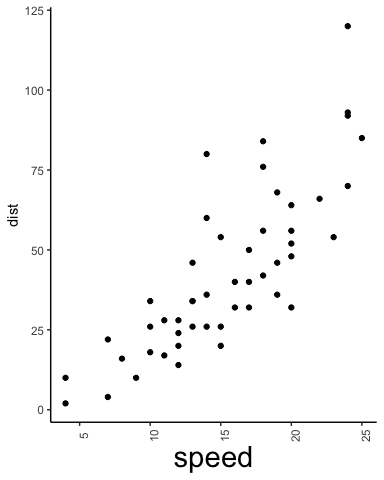
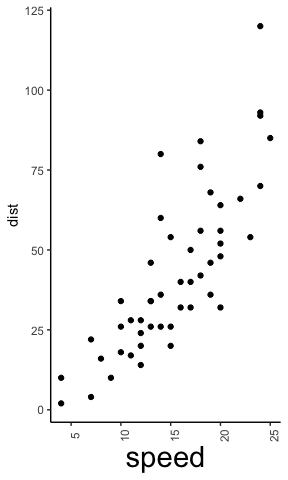
more commands

diff --git a/README.md b/README.md
@@ -31,7 +31,7 @@ below):
       gg_("rotate x-axis labels by 90 degrees")+
       gg_("increase font size on x-axis label")
 
-![](man/figures/README-overview_usage-1.png)
+<img src="man/figures/README-overview_usage-1.png" width="50%" />
 
 Disclaimer
 ----------
@@ -68,7 +68,7 @@ Fisher’s classic iris data:
            mapping=aes(x=Sepal.Length, 
                       y=Petal.Length, color=Species))
 
-![](man/figures/README-unnamed-chunk-3-1.png)
+<img src="man/figures/README-unnamed-chunk-3-1.png" width="50%" />
 
 Now, if we want to hide the legend and don’t remember the ggplot command
 to do so, we can use the `gg_()` short-hand to express our request in
@@ -80,7 +80,7 @@ natural language:
       geom_point()+
       gg_("hide legend")
 
-![](man/figures/README-example_hide_legend-1.png)
+<img src="man/figures/README-example_hide_legend-1.png" width="50%" />
 
 Or, say we want to rotate the labels of the x axis:
 
@@ -90,7 +90,7 @@ Or, say we want to rotate the labels of the x axis:
       geom_point()+
       gg_("rotate x-axis labels by 90°")
 
-![](man/figures/README-example_rotate_labels-1.png)
+<img src="man/figures/README-example_rotate_labels-1.png" width="50%" />
 
 Or,
 
@@ -100,7 +100,7 @@ Or,
       geom_point()+
       gg_("double the font size on the x-axis label")
 
-![](man/figures/README-example_increase_fontsize-1.png)
+<img src="man/figures/README-example_increase_fontsize-1.png" width="50%" />
 
 If you want to go the safer route, just use the `ggx` package as
 personal assistant that helps you find solutions to common graph
@@ -128,6 +128,20 @@ the question is put:
     #> theme(legend.position = "none")
     gghelp("Get rid of that stupid legend")
     #> theme(legend.position = "none")
+
+Other Solutions
+---------------
+
+There is a nice little package called
+[ggeasy](https://jonocarroll.github.io/ggeasy/) that addresses the same
+problem. However, it defines yet another set of commands, like this:
+
+    # rotate x axis labels
+    ggplot(mtcars, aes(hp, mpg)) + 
+        geom_point() + 
+        easy_rotate_x_labels()
+
+But I keep forgetting those, too ;)
 
 Disclaimer (continued)
 ----------------------
